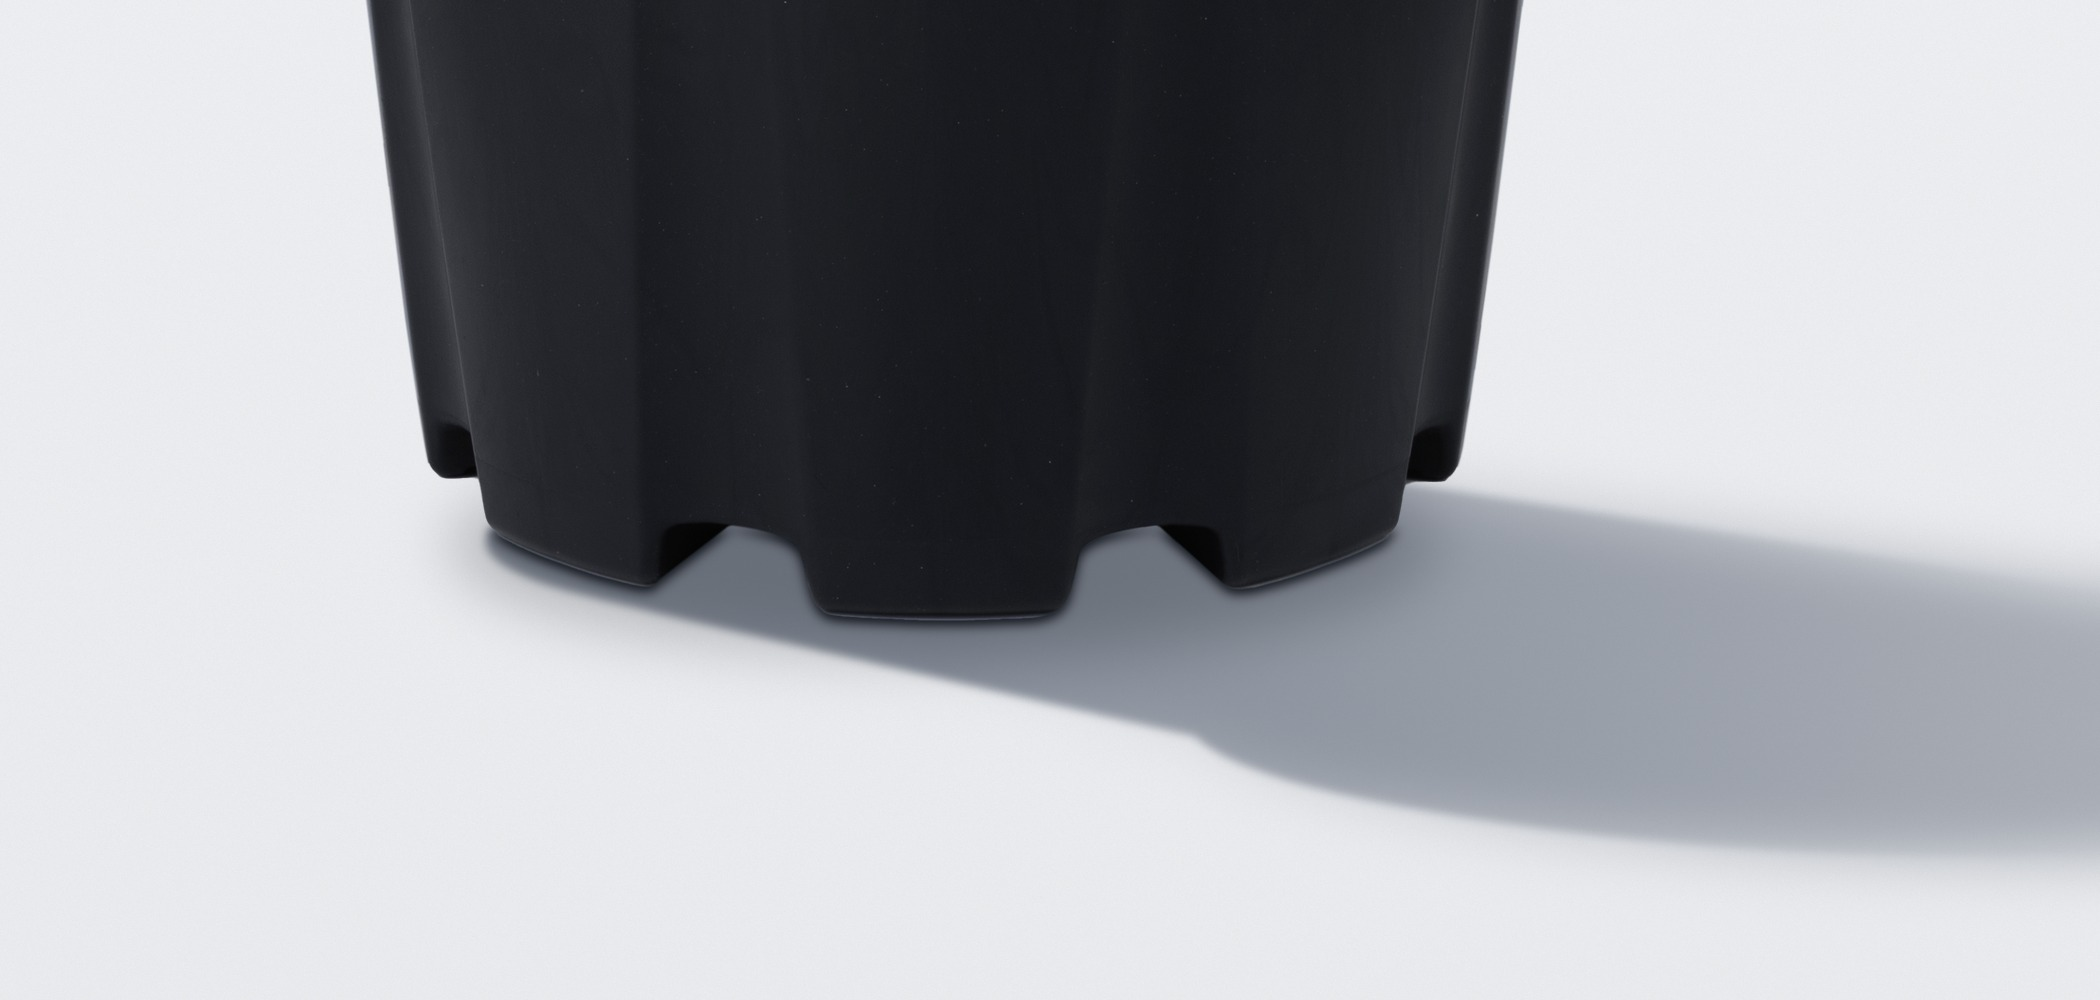
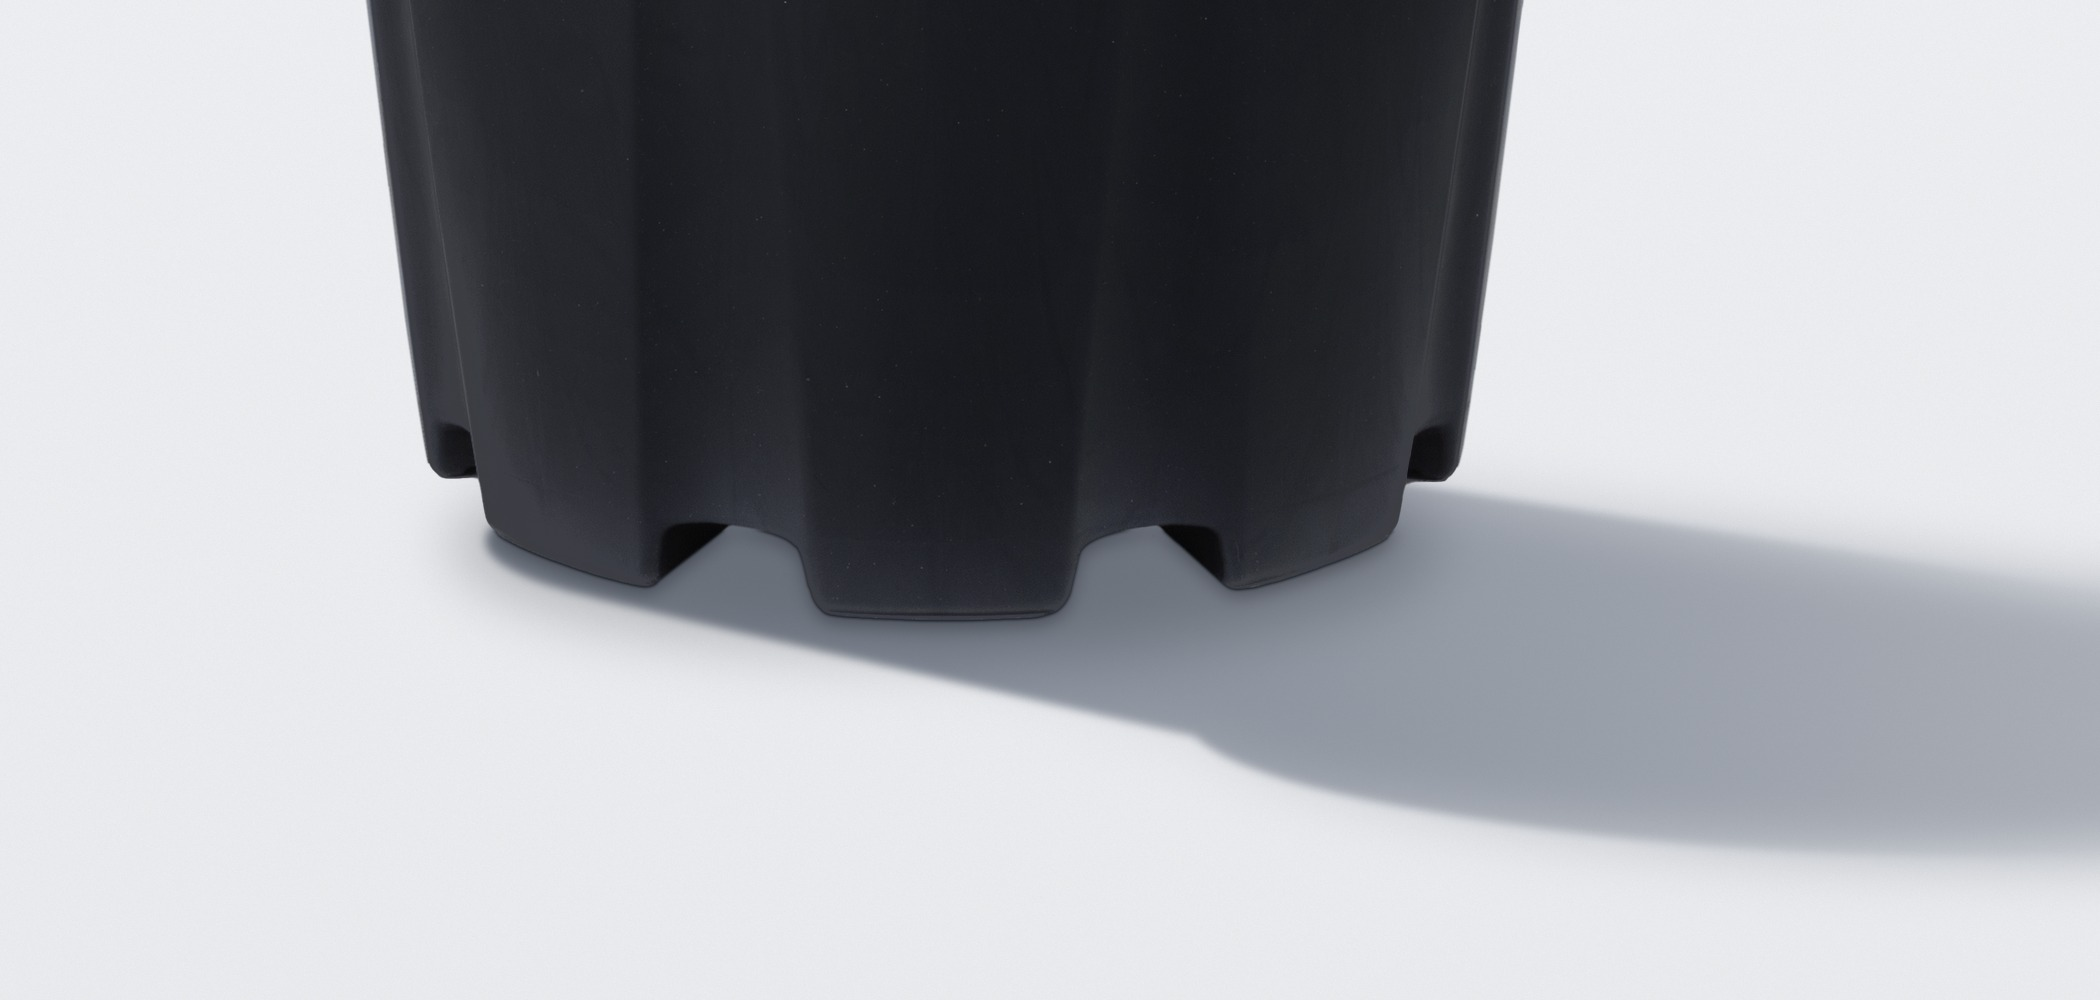
Bring out pot bottoms and drainage holes against the contact shadow
The thick near-black contact band merged with the dark pot rims, hiding
the drainage holes on Etna and the handle container. Replace it with a
hairline plus a grey falloff, add a per-pot floor bounce on the lowest
band of plastic (multiplicative, capped, so holes stay dark), and remove
the white background fringe left on the cutout edges.

Claude-Session: https://claude.ai/code/session_01XLBu8TZcwAi15AbFpiKRnv

diff --git a/scripts/idel_keyvisual.py b/scripts/idel_keyvisual.py
@@ -3,6 +3,7 @@
 원칙
   - 화분 원본 픽셀은 크기 축소 외에 손대지 않는다 (색·대비·광택·그레인 X).
   - 접지: 화분 실루엣의 바닥 곡선에서 바닥 타원을 직접 계산해 그 아래를 어둡게.
+  - 예외: 밑단의 구멍이 그림자와 붙어 보이지 않도록 바닥 반사광(BOUNCE_TARGET)만 밑단에 살짝.
   - 그림자: 왼쪽에서 들어오는 빛 → 오른쪽 앞으로 떨어지는 선명한 그림자.
 
   python scripts/idel_keyvisual.py            # 미리보기 (25%)
@@ -39,6 +40,7 @@ POTS = [
 
 # ---- light: 왼쪽 위에서 → 그림자는 오른쪽, 살짝 앞으로 ----
 KX, KY = 0.85, -0.16       # 높이 h의 단면이 바닥에 떨어지는 위치 (x + h*KX, y - h*KY)
+BOUNCE_TARGET = 0.21       # 바닥 반사광: 화분 밑단 플라스틱 밝기 목표 (0이면 원본 그대로)
 
 
 def load_pot(rel, cache_dir):
@@ -67,6 +69,22 @@ def load_pot(rel, cache_dir):
     rgb = rgb.copy()
     rgb[edge] = inner[edge]
     return np.dstack([rgb, soft])
+
+
+def defringe(rgba):
+    """가장자리 반투명 픽셀(1~3px)에 섞인 원래 배경색(흰 번짐)을 바로 안쪽 화분 색으로 교체.
+
+    알파가 거의 1인 안쪽 픽셀은 손대지 않는다.
+    """
+    a = rgba[..., 3]
+    opaque = a >= 0.98
+    edge = (a > 0) & ~opaque
+    if not edge.any():
+        return rgba
+    _, (iy, ix) = ndi.distance_transform_edt(~opaque, return_indices=True)
+    out = rgba.copy()
+    out[edge, :3] = rgba[iy[edge], ix[edge], :3]
+    return out
 
 
 def trim(rgba):
@@ -171,21 +189,57 @@ def cast_shadow(H, W, pot, x0, y0, fp):
 
 
 def contact_shadow(H, W, pot, x0, y0, fp):
-    """화분 바닥 외곽선에 딱 붙는 진한 접지 그림자 + 바닥 원 주변의 옅은 앰비언트 그림자."""
+    """화분 바닥 외곽선 바로 밑의 가는 접지선 + 회색 그라데이션 + 바닥 원 주변의 옅은 그림자.
+
+    접지선을 새까맣고 두껍게 깔면 검은 화분 밑단·구멍과 한 덩어리로 붙어 보이므로
+    가장 진한 부분은 머리카락 두께로만 둔다.
+    """
     ph, pw = pot.shape[:2]
     fcx, fcy, frx, fry = fp
-    # 1) 실루엣을 아래로 조금 내린 모양 → 바닥 곡선(발 포함) 바로 밑에만 진하게
-    sil = np.zeros((H, W), np.float32)
-    d = max(1, round(ph * 0.004))
-    ys, ye = max(0, y0 + d), min(H, y0 + d + ph)
-    xs, xe = max(0, x0), min(W, x0 + pw)
-    sil[ys:ye, xs:xe] = pot[ys - y0 - d: ye - y0 - d, xs - x0: xe - x0, 3]
-    sil[: int(y0 + fcy)] = 0                       # 바닥 원 중심보다 위(화분 몸통)는 제외
-    tight = ndi.gaussian_filter(sil, max(0.8, ph * 0.004))
-    # 2) 바닥 원 주변 옅은 그림자 (화분 폭 안쪽으로 제한)
+
+    def shifted_silhouette(d):
+        sil = np.zeros((H, W), np.float32)
+        ys, ye = max(0, y0 + d), min(H, y0 + d + ph)
+        xs, xe = max(0, x0), min(W, x0 + pw)
+        sil[ys:ye, xs:xe] = pot[ys - y0 - d: ye - y0 - d, xs - x0: xe - x0, 3]
+        sil[: int(y0 + fcy)] = 0                   # 바닥 원 중심보다 위(화분 몸통)는 제외
+        return sil
+
+    # 1) 가는 접지선 (실루엣을 아주 조금 내린 모양)
+    hair = ndi.gaussian_filter(shifted_silhouette(max(1, round(ph * 0.0008))), max(0.6, ph * 0.001))
+    # 2) 그 아래로 번지는 회색 그라데이션
+    soft = ndi.gaussian_filter(shifted_silhouette(max(1, round(ph * 0.006))), max(1.0, ph * 0.006))
+    # 3) 바닥 원 주변 옅은 그림자 (화분 폭 안쪽으로 제한)
     wide = ellipse_mask(H, W, x0 + fcx, y0 + fcy + fry * 0.15, frx * 0.98, fry * 1.25)
     wide = ndi.gaussian_filter(wide, max(1.0, pw * 0.02))
-    return np.clip(0.95 * tight + 0.30 * wide, 0, 1)
+    return np.clip(0.80 * hair + 0.35 * soft + 0.30 * wide, 0, 1)
+
+
+def floor_bounce(pot, target):
+    """흰 바닥에서 올라오는 반사광: 화분 밑단 플라스틱만 살짝 밝게.
+
+    밝기를 곱하는 방식이라 원래 어두운 구멍은 거의 그대로 → 구멍과 테두리의 대비가 살아난다.
+    화분마다 플라스틱 밝기가 달라서, 밑단 밝기가 target에 오도록 세기를 자동으로 정한다.
+    밑단에서 위로 갈수록 빠르게 사라지며, 화분의 나머지 부분은 원본 그대로.
+    """
+    if target <= 0:
+        return pot
+    rgb, a = pot[..., :3], pot[..., 3]
+    ph, pw = a.shape
+    solid = a > 0.5
+    lum = rgb @ np.array([0.299, 0.587, 0.114], np.float32)
+    band = solid.copy()
+    band[: int(ph * 0.85)] = False
+    strength = float(np.clip(target / max(1e-3, np.median(lum[band])) - 1, 0, 1.8))
+    has = solid.any(0)
+    bottom = np.where(has, ph - 1 - np.argmax(solid[::-1], 0), 0)
+    dist = np.clip(bottom[None, :] - np.arange(ph)[:, None], 0, None).astype(np.float32)
+    lift = strength * np.exp(-dist / (0.06 * ph)) * has[None, :]
+    # 원래 밝던 가장자리 하이라이트가 과하게 증폭되지 않도록 목표 밝기 근처에서 상한
+    mult = 1 + lift
+    cap = np.maximum(1.0, (target * 1.15) / np.maximum(lum, 1e-3))
+    mult = np.minimum(mult, cap)
+    return np.dstack([np.clip(rgb * mult[..., None], 0, 1), a])
 
 
 def main():
@@ -202,7 +256,7 @@ def main():
 
     placed = []
     for rel, cx, by, wf in POTS:
-        src = trim(load_pot(rel, cache))
+        src = trim(defringe(load_pot(rel, cache)))
         # 원본보다 크게 배치하면 뭉개지므로 금지 (인쇄 해상도 기준 검사)
         if round(FULL_W * wf) > src.shape[1]:
             raise SystemExit(f"{rel}: 원본 {src.shape[1]}px < 배치 {round(FULL_W * wf)}px — 가로폭을 줄이세요")
@@ -218,14 +272,14 @@ def main():
         np.maximum(sh, cast_shadow(H, W, pot, x0, y0, fp), out=sh)
     img *= 1 - 0.85 * sh[..., None] * (1 - SHADOW)
 
-    # 2) 뒤에서부터: 접지 그림자 → 화분 원본
+    # 2) 뒤에서부터: 접지 그림자 → 화분 (밑단 반사광 외엔 원본)
     for pot, x0, y0, fp in placed:
         ph, pw = pot.shape[:2]
         c = contact_shadow(H, W, pot, x0, y0, fp)
         img *= 1 - c[..., None] * (1 - SHADOW * 0.55)
         ys, ye = max(0, y0), min(H, y0 + ph)
         xs, xe = max(0, x0), min(W, x0 + pw)
-        p = pot[ys - y0: ye - y0, xs - x0: xe - x0]
+        p = floor_bounce(pot, BOUNCE_TARGET)[ys - y0: ye - y0, xs - x0: xe - x0]
         a = p[..., 3:4]
         img[ys:ye, xs:xe] = p[..., :3] * a + img[ys:ye, xs:xe] * (1 - a)
 

diff --git a/README.md b/README.md
@@ -16,6 +16,7 @@ AI가 새로 만든 레이아웃 대신, **사람이 직접 만든 공개 템플
 
 참고 사진(`assets/Idel_Pots_reference`)의 불가리 스틸라이프(밝은 회백색 스튜디오) 스타일로 누끼 화분을 합성합니다.
 화분 원본 픽셀은 크기 축소 외에 손대지 않고, 바닥 곡선에 맞춘 접지 그림자와 왼쪽 빛의 긴 그림자만 더합니다.
+예외 두 가지: 누끼 가장자리 1~3px의 흰 배경 번짐 제거, 밑단 구멍이 그림자와 붙어 보이지 않도록 밑단에만 바닥 반사광(`BOUNCE_TARGET`, 0이면 끔).
 
 ```bash
 pip install -r scripts/requirements.txt
